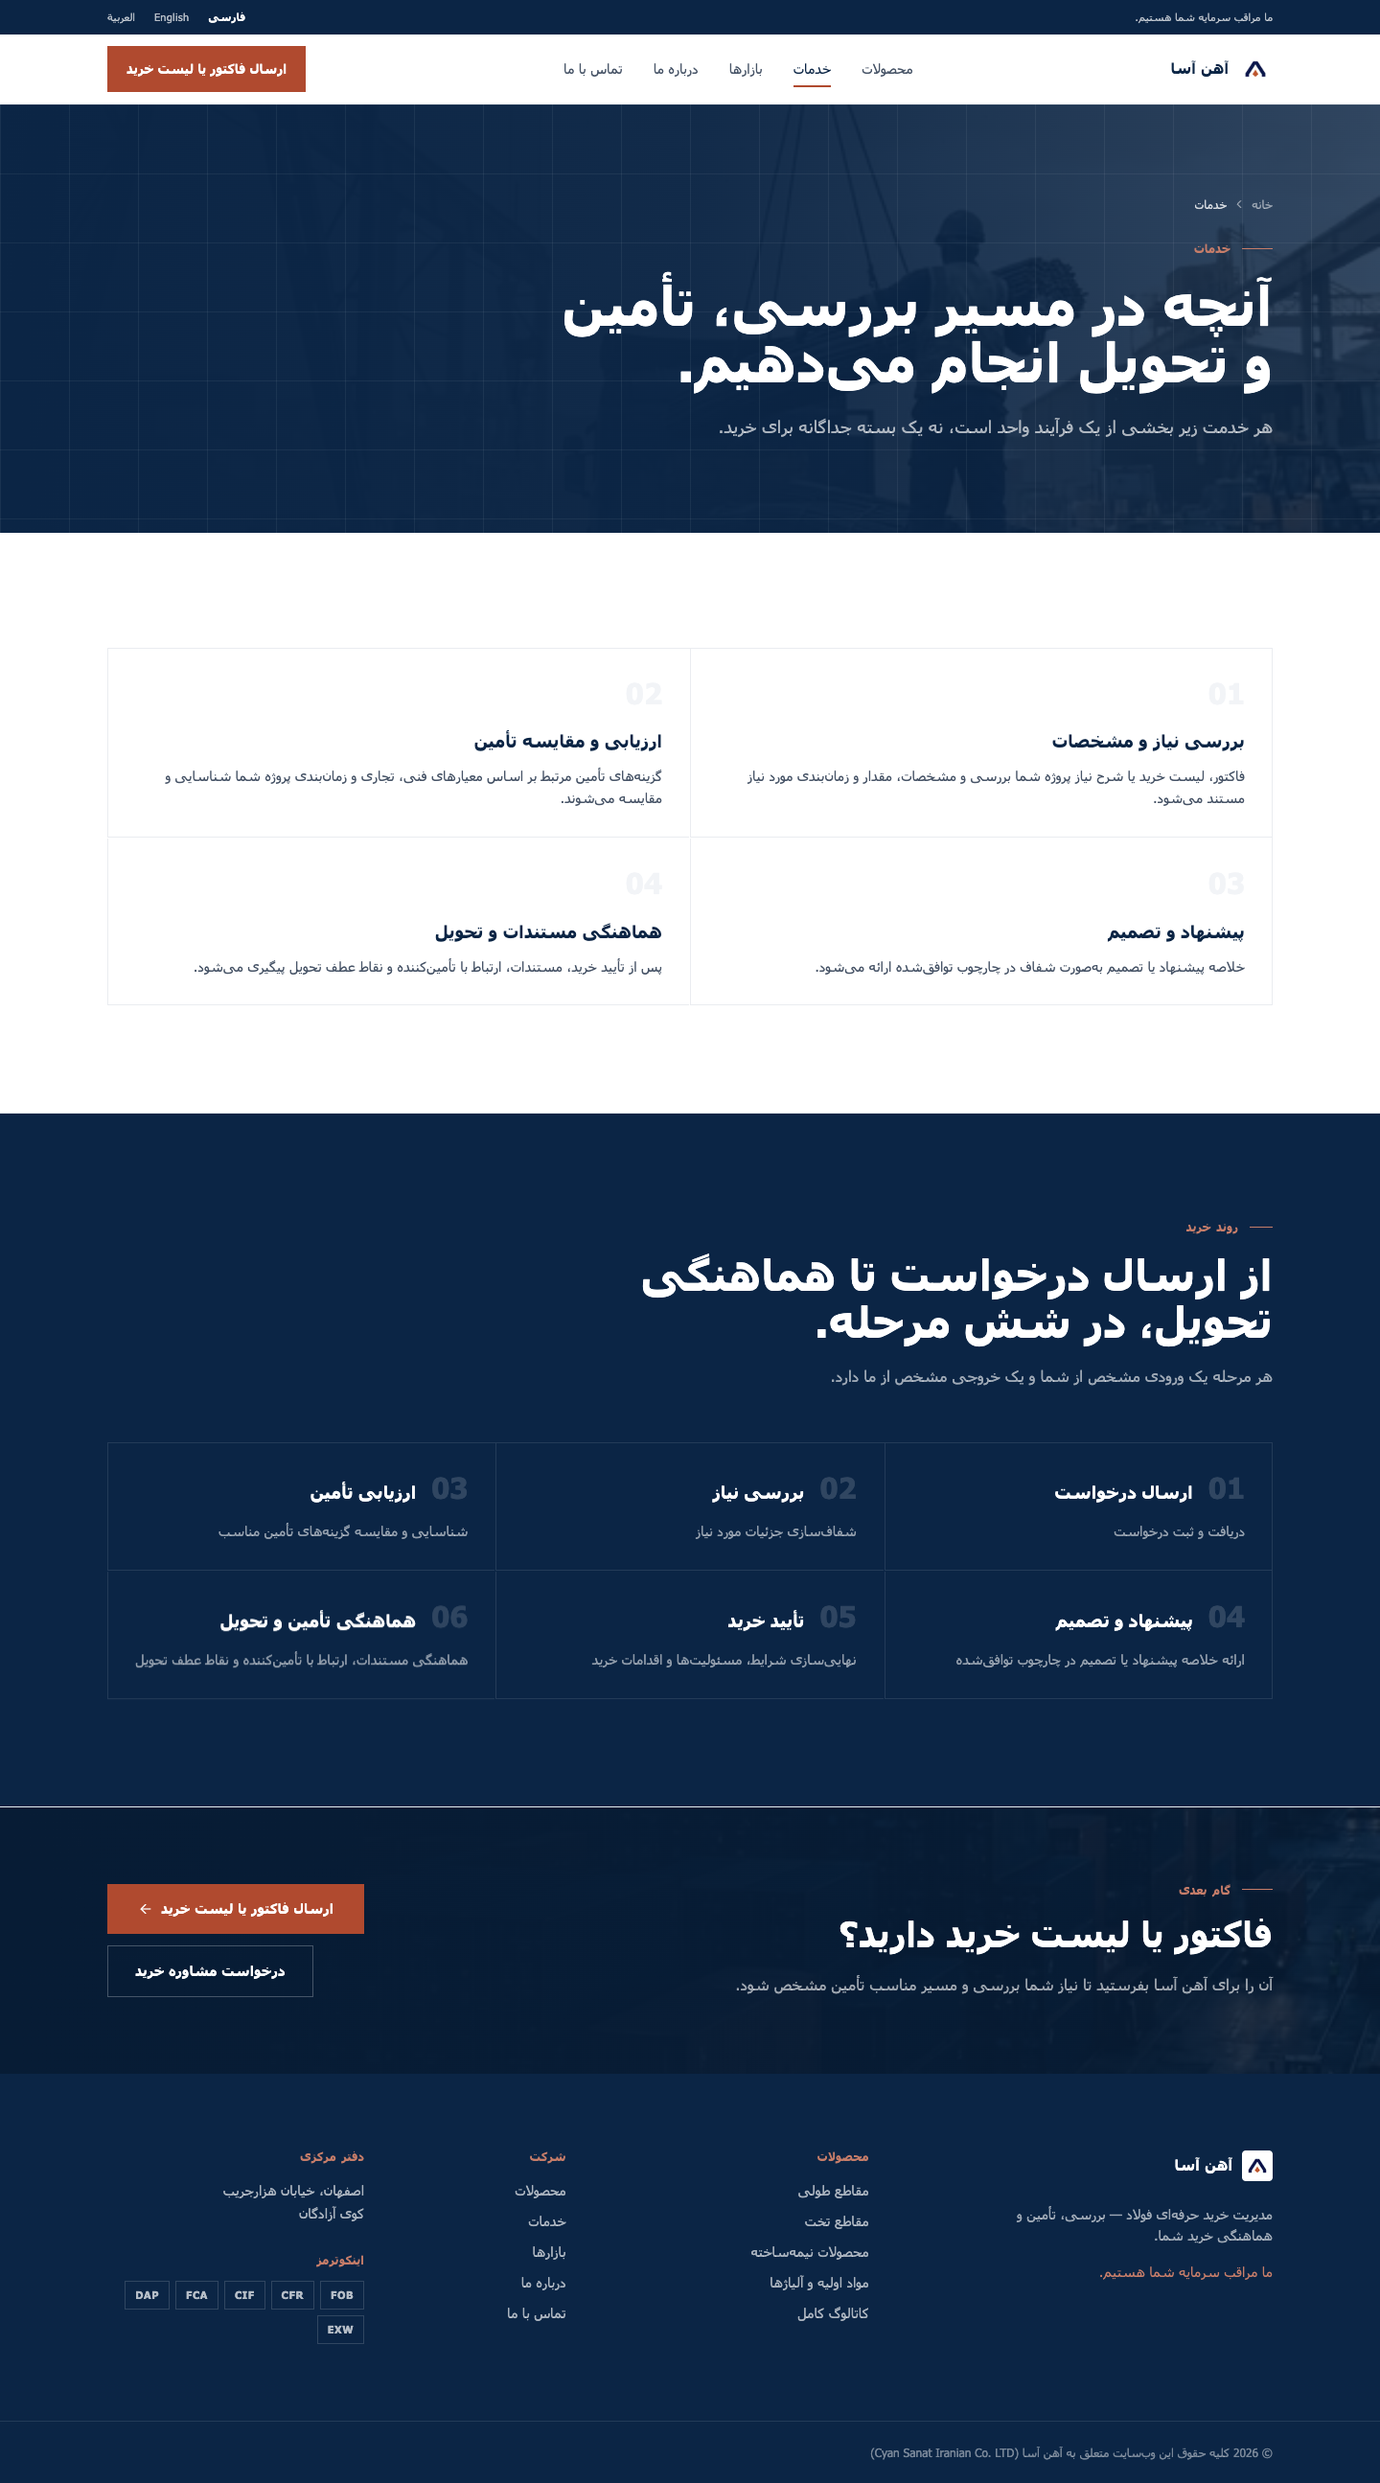
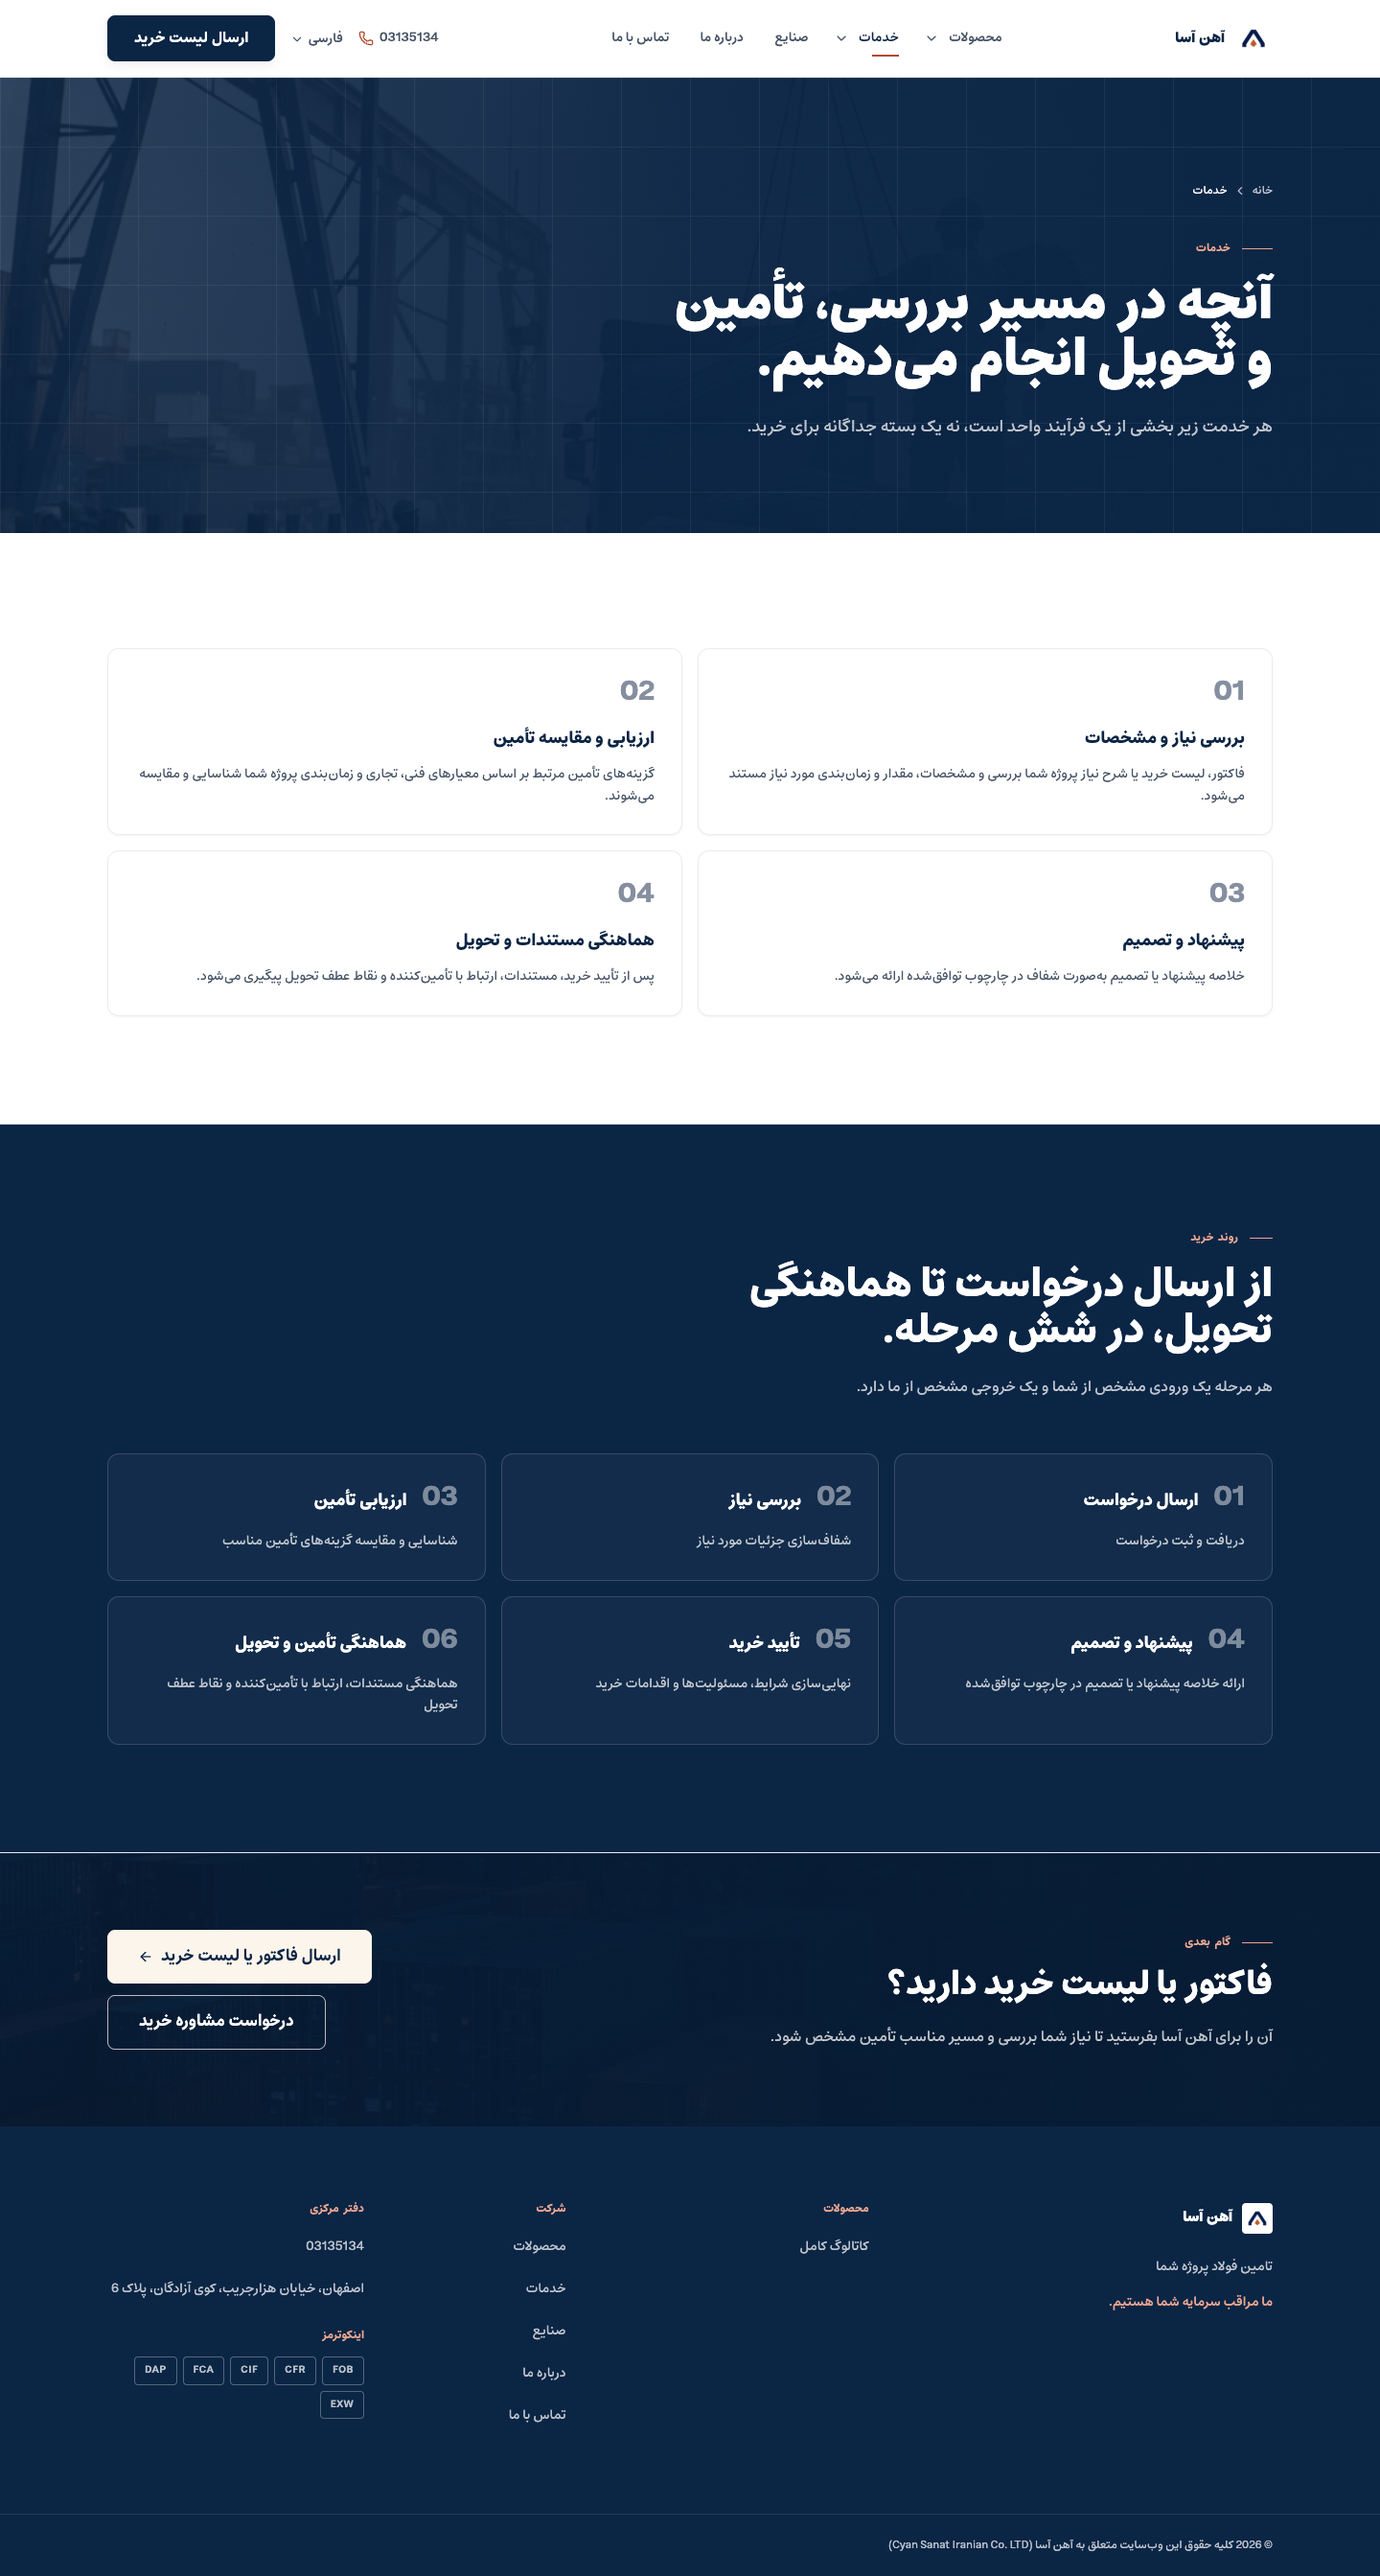
docs(w10.2 P1-9): recapture design-reference/v0-approved after the owner-approved W10 change (D-W10-1, D-W10-2)
Same six pages and viewports as the 2026-08-28 baseline, captured from a
local static build of this branch; README records the recapture and the
decisions it follows.

diff --git a/design-reference/v0-approved/README.md b/design-reference/v0-approved/README.md
@@ -8,6 +8,10 @@
 - **Frozen from source migration commit:** `b1d0841` (`feat: adopt approved v0 design as visual authority`), on branch `feat/integrate-v0-design`.
 - **Captured:** 2026-08-28, from the canonical repository's own `vinext dev` server running at that commit — not from the external `ahanassa-v0` project directly, and not from the older `design-reference/homepage-desktop-v1.png`.
 
+### Recapture of 2026-10-08 (W10.2)
+
+All six screenshots were **recaptured** after the owner-approved W10 design-system change (`docs/OWNER_DECISIONS.md`, decisions of 2026-10-08: **D-W10-1** inner pages move to rounded cards, panels and controls — superseding the square v0 "spec-sheet" grid for inner pages; **D-W10-2** copper buttons retired, navy primary everywhere). Same pages and viewports as below; captured with Playwright driving the installed Chrome against a local static build (`scripts/static/build.ts`, fixture snapshot `fixtures/snapshot/staging-2026-10-01.snapshot.json`, staging target), with `prefers-reduced-motion` unset and each page scrolled once. Tooling stayed outside the repository, as before. The 2026-08-28 captures remain in git history.
+
 ## Visual authority rule
 
 1. **Visual/UI/layout/styling:** the current canonical implementation in this repository (`app/`, `components/`) **plus this directory** as the version-controlled visual record of what that implementation looked like when approved. Neither the screenshots here nor the external `ahanassa-v0` folder are themselves rendered by the production site — the canonical codebase is.
